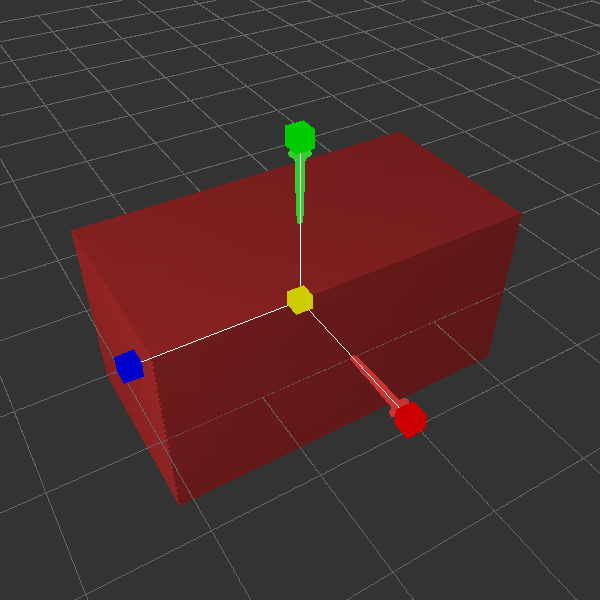
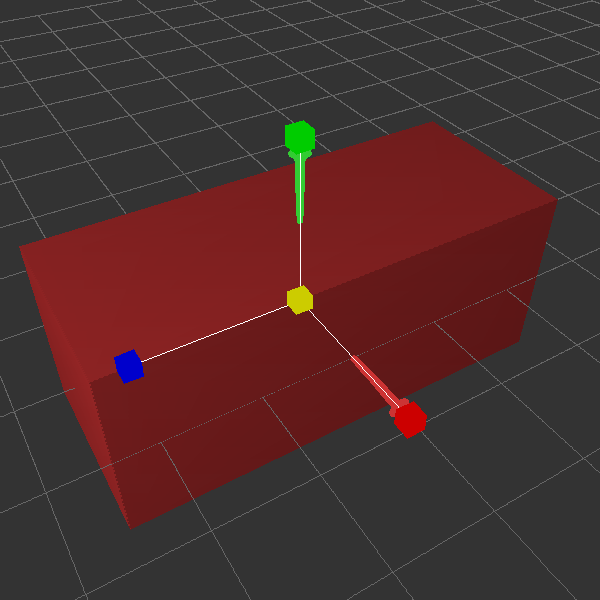
done i think

Changed region(s): [[0.03, 0.39, 0.3, 0.9], [0.66, 0.18, 0.93, 0.6]]

diff --git a/model3/src/modeler/manip/TranslateManip.java b/model3/src/modeler/manip/TranslateManip.java
@@ -17,37 +17,50 @@ public class TranslateManip extends Manip {
 	}
 
 	public void dragged(Vector2f mousePosition, Vector2f mouseDelta) {
-		// TODO: Part 3: Implement this method
 
-		//get axis ray
-		Point3f axisOrigin = new Point3f();
-		Vector3f axisDirection = new Vector3f();
-		computeAxisRay(axisOrigin, axisDirection);
+		//grabbing the center point
+		if (axisMode == PICK_OTHER)
+		{
+			mousePosition.x = -mousePosition.x;
+			mousePosition.y = -mousePosition.y;
 
-		//get viewing ray for start position
-		Point3f viewOriginStart = new Point3f();
-		Vector3f viewDirectionStart = new Vector3f();
-    	computeViewingRay(mousePosition, viewOriginStart, viewDirectionStart);
+			Vector3f mouse3D = new Vector3f();
+			c.convertMotion(mousePosition, mouse3D);
+			t.setTranslate(mouse3D);
+		}
+		//grabbing individual axis
+		else
+		{
+			//get axis ray
+			Point3f axisOrigin = new Point3f();
+			Vector3f axisDirection = new Vector3f();
+			computeAxisRay(axisOrigin, axisDirection);
 
-		//get viewing ray for end position
-		Point3f viewOriginEnd = new Point3f();
-		Vector3f viewDirectionEnd = new Vector3f();
-		Vector2f newMousePosition = new Vector2f(mousePosition.x + mouseDelta.x, mousePosition.y + mouseDelta.y);
-		computeViewingRay(newMousePosition, viewOriginEnd, viewDirectionEnd);
+			//get viewing ray for start position
+			Point3f viewOriginStart = new Point3f();
+			Vector3f viewDirectionStart = new Vector3f();
+			Vector2f startMouse = new Vector2f(mousePosition.x - mouseDelta.x, mousePosition.y - mouseDelta.y);
+			computeViewingRay(startMouse, viewOriginStart, viewDirectionStart);
 
-		//get T values
-		float tStart = computePseudointersection(viewOriginStart, viewDirectionStart, axisOrigin, axisDirection);
-		float tEnd = computePseudointersection(viewOriginEnd, viewDirectionEnd, axisOrigin, axisDirection);
-		float tDifference = tEnd - tStart;
+			//get viewing ray for end position
+			Point3f viewOriginEnd = new Point3f();
+			Vector3f viewDirectionEnd = new Vector3f();
+			computeViewingRay(mousePosition, viewOriginEnd, viewDirectionEnd);
 
-		//scale selected axis by t value
-		Vector3f translationAmount = new Vector3f();
-    	translationAmount.scale(tDifference, axisDirection);
+			//get T values
+			float tStart = computePseudointersection(viewOriginStart, viewDirectionStart, axisOrigin, axisDirection);
+			float tEnd = computePseudointersection(viewOriginEnd, viewDirectionEnd, axisOrigin, axisDirection);
+			float tDifference = tEnd - tStart;
 
-		//update the translation component of the transformation
-		Vector3f currentTranslation = t.getTranslate();
-		currentTranslation.add(translationAmount);
-		t.setTranslate(currentTranslation);
+			//scale selected axis by t value
+			Vector3f translationAmount = new Vector3f();
+			translationAmount.scale(tDifference, axisDirection);
+
+			//update the translation component of the transformation
+			Vector3f currentTranslation = t.getTranslate();
+			currentTranslation.add(translationAmount);
+			t.setTranslate(currentTranslation);
+		}
 	}
 
 	////////////////////////////////////////////////////////////////////////////////////////////////////

diff --git a/model3/src/modeler/manip/ScaleManip.java b/model3/src/modeler/manip/ScaleManip.java
@@ -20,35 +20,58 @@ public class ScaleManip extends Manip {
 	public void dragged(Vector2f mousePosition, Vector2f mouseDelta) {
 		// TODO: Part 3: Implement this method
 
-		//get axis ray
-		Point3f axisOrigin = new Point3f();
-		Vector3f axisDirection = new Vector3f();
-		computeAxisRay(axisOrigin, axisDirection);
+		//grabbing the center point
+		if (axisMode == PICK_OTHER)
+		{
+			float scale = mouseDelta.y * 2 + 1;
+			Vector3f currentScale = t.getScale();
+			currentScale.scale(scale);
+			t.setScale(currentScale);
+		}
+		//grabbing individual axis
+		else
+		{
+			//get axis ray
+			Point3f axisOrigin = new Point3f();
+			Vector3f axisDirection = new Vector3f();
+			computeAxisRay(axisOrigin, axisDirection);
 
-		//get viewing ray for start position
-		Point3f viewOriginStart = new Point3f();
-		Vector3f viewDirectionStart = new Vector3f();
-		computeViewingRay(mousePosition, viewOriginStart, viewDirectionStart);
+			//get viewing ray for start position
+			Point3f viewOriginStart = new Point3f();
+			Vector3f viewDirectionStart = new Vector3f();
+			Vector2f startMouse = new Vector2f(mousePosition.x - mouseDelta.x, mousePosition.y - mouseDelta.y);
+			computeViewingRay(startMouse, viewOriginStart, viewDirectionStart);
 
-		//get viewing ray for end position
-		Point3f viewOriginEnd = new Point3f();
-		Vector3f viewDirectionEnd = new Vector3f();
-		Vector2f newMousePosition = new Vector2f(mousePosition.x + mouseDelta.x, mousePosition.y + mouseDelta.y);
-		computeViewingRay(newMousePosition, viewOriginEnd, viewDirectionEnd);
+			//get viewing ray for end position
+			Point3f viewOriginEnd = new Point3f();
+			Vector3f viewDirectionEnd = new Vector3f();
+			computeViewingRay(mousePosition, viewOriginEnd, viewDirectionEnd);
 
-		//get T values
-		float tStart = computePseudointersection(viewOriginStart, viewDirectionStart, axisOrigin, axisDirection);
-		float tEnd = computePseudointersection(viewOriginEnd, viewDirectionEnd, axisOrigin, axisDirection);
-		float tDifference = tEnd - tStart;
+			//get T values
+			float tStart = computePseudointersection(viewOriginStart, viewDirectionStart, axisOrigin, axisDirection);
+			float tEnd = computePseudointersection(viewOriginEnd, viewDirectionEnd, axisOrigin, axisDirection);
 
-		//scale selected axis by t value
-		Vector3f translationAmount = new Vector3f();
-		translationAmount.scale(tDifference, axisDirection);
+			//find ratio
+			float tDifference = (tEnd / tStart);
 
-		//update the translation component of the transformation
-		Vector3f currentTranslation = t.getScale();
-		currentTranslation.add(translationAmount);
-		t.setScale(currentTranslation);
+			//set scale
+			Vector3f currentScale = t.getScale();
+
+			if (axisMode == PICK_X)
+			{
+				currentScale.x = tDifference;
+			}
+			if (axisMode == PICK_Y)
+			{
+				currentScale.y = tDifference;
+			}
+			if (axisMode == PICK_Z)
+			{
+				currentScale.z = tDifference;
+			}
+
+			t.setScale(currentScale);
+		}
 	}
 
 	////////////////////////////////////////////////////////////////////////////////////////////////////
